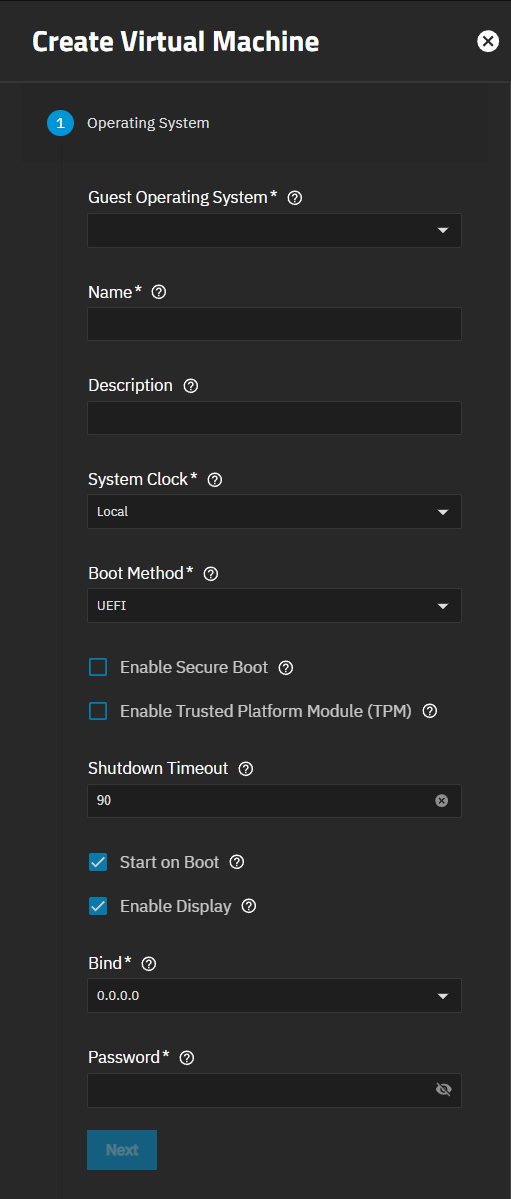
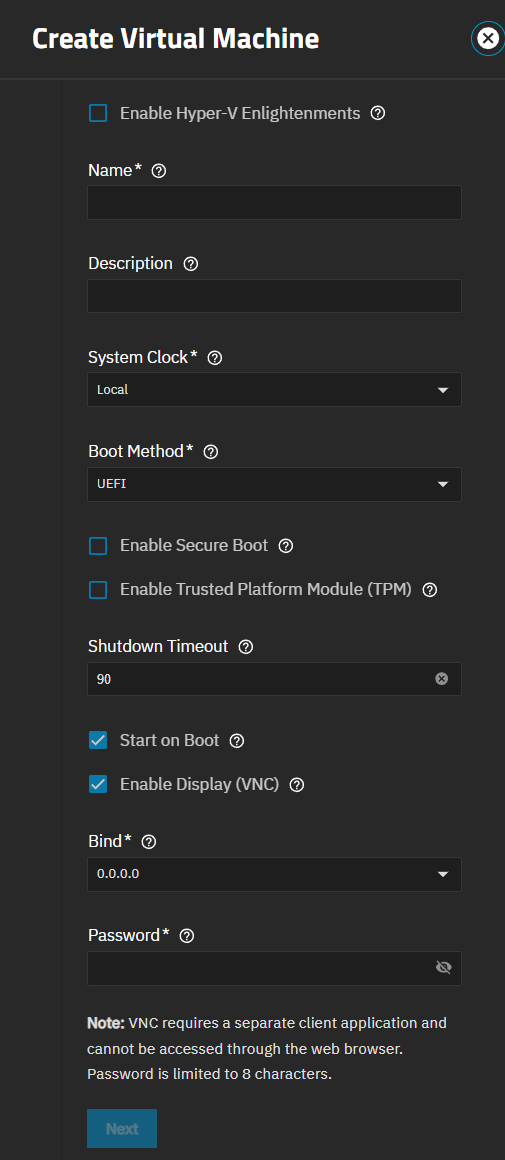
PD-1870 Update Display Device Options
This commit updates the UI ref and tutorials to include the new **Enable Device (VNC)** option, and the **Add Device** instructions for a display.

(cherry picked from commit f0341be6bd9b346312ac6e125d729750f8a890bd)

diff --git a/content/SCALEUIReference/VirtualMachinesScreens.md b/content/SCALEUIReference/VirtualMachinesScreens.md
@@ -172,7 +172,7 @@ The **Operating System** settings specify the VM operating system type, the time
 | **Enable Trusted Platform Module (TPM)** | Sets TrueNAS to provide a virtual TPM 2.0 device for the VM. This enables hardware-based security functions, including secure key storage and cryptographic operations. Required for Windows 11. |
 | **Shutdown Timeout** | Text entry field that accepts manual entry of a time in seconds that the system waits for the VM to cleanly shut down. During system shutdown, the system powers off after the shutdown timeout entered for the VM expires. |
 | **Start on Boot** | Sets the VM to automatically start after restarting the system or when it is rebooted. Selected by default. |
-| **Enable Display** | Enables a display (Virtual Network Computing) remote connection. Requires UEFI booting. Selected by default. |
+| **Enable Display (VNC)** | Enables a VNC display (Virtual Network Computing) remote connection. VNC is the default display type when adding a VM. Requires UEFI booting. Selected by default. |
 | **Bind** | Shows when **Enable Display** is selected. Sets an IP address to use for remote VNC sessions. Note that this setting only applies when using a VNC client other than the TrueNAS WebUI. |
 | **Password** | (Required)  Displays when **Enable Display** is selected.Enter a password to secure access to the VM. Enter this when logging into the VNC display. |
 {{< /truetable >}}
@@ -310,7 +310,7 @@ Disk settings, including disk location, drive type, and disk sector size, show w
 {{< /expand >}}
 
 {{< expand "Display Settings" "v" >}}
-Display settings show when **Device Type** is set to **Display**.
+Display settings show when **Device Type** is set to **Display**. You can only have one display type set to either VNC (the default when creating a new VM) but can add a second display device set to SPICE.
 
 Remote clients can connect to VM display sessions using a SPICE client, or by installing a third-party remote desktop server inside your VM.
 SPICE clients are available from the [SPICE Protocol site](https://www.spice-space.org/).
@@ -320,6 +320,7 @@ SPICE clients are available from the [SPICE Protocol site](https://www.spice-spa
 {{< truetable >}}
 | Setting | Description |
 |---------|-------------|
+| **Display Type** | Sets a new display device type to the option selected. <br>If the VM is created with no display setting, the options shown in **Display Type** are **VNC** or **SPICE**. If the VM is created with the default **VNC** display, only the **SPICE** option shows in on the dropdown list. <br>If you create a VM without adding the device and then later add a display device, the options show **VNC** and **SPICE** on the dropdown list. <br>TrueNAS allows creating two display devices, one from the VM creation wizard, which uses the default **VNC** display, and a second through the **Add Device** screen with the **Device Type** is set to **Display**. Only **SPICE** shows when adding the second display device. |
 | **Port** | Text field that accepts manual or copy/paste entry of a port number. Can be set to **0**, left empty for TrueNAS to assign a port when the VM is started, or set to a fixed preferred port number. |
 | **Resolution** | Sets the screen resolution for the VM display session to the option selected on the dropdown list. |
 | **Bind** | Sets the IP address used for the SPICE display sessions to the option selected on the dropdown list. Options include the default **0.0.0.0**, **::**, **::1**, IP addresses obtained from your network, and the TrueNAS primary interface. |

diff --git a/content/SCALETutorials/VirtualMachines/AddManageVMDevicesSCALE.md b/content/SCALETutorials/VirtualMachines/AddManageVMDevicesSCALE.md
@@ -183,12 +183,18 @@ After stopping the VM and clicking **Devices** to open the **Devices** screen:
 
    {{< trueimage src="/images/SCALE/Virtualization/VMAddDeviceDisplay.png" alt="Devices Add Display" id="Devices Add Display" >}}
 
-2. Enter a fixed port number in **Port**.
+2. Select the **Display Device** option from the dropdown list.
+   TrueNAS allows a VM to have two display devices, a VNC display device added through the VM creation wizard if the **Enable Display (VNC)** option is selected, and a second SPICE display device added to the VM using the **Add Device** screen with **Device Type** set to display.
+
+   If you created the VM without the display, the **Display Type** dropdown list shows the **VNC** and **SPICE** options.
+   Select the display type on the dropdown list. (VNC is recommended).
+   To add a second display device, repeat this procedure and select **SPICE** (the only option for the second display device).
+3. Enter a fixed port number in **Port**.
    To allow TrueNAS to assign the port after restarting the VM, set the value to zero (leave the field empty).
-3. Specify the display session settings:
+4. Specify the display session settings:
    a. Select the screen resolution to use for the display from the **Resolution** dropdown.
    b. Select an IP address for the display device to use in **Bind**. The default is **0.0.0.0**.
    c. Enter a unique password for the display device to securely access the VM.
-4. Select **Web Interface** to allow access to the VNC web interface.
-5. Click **Save**.
-6. Click on the **Virtual Machines** breadcrumb at the top of the screen, and restart the VM.
+5. Select **Web Interface** to allow access to the VNC web interface.
+6. Click **Save**.
+7. Click on the **Virtual Machines** breadcrumb at the top of the screen, and restart the VM.

diff --git a/content/SCALETutorials/VirtualMachines/_index.md b/content/SCALETutorials/VirtualMachines/_index.md
@@ -64,8 +64,8 @@ If you have not yet added a virtual machine to your system, clicking **Add Virtu
 
    g. (Optional) Select **Start on Boot** to start the VM after the system is restarted or boots up.
    
-   h. (Optional) Select **Enable Display** to enable a SPICE Virtual Network Computing (VNC) remote connection for the VM.
-      **Enable Display** shows the **Bind** and **Password** fields.
+   h. (Optional) Select **Enable Display (VNC)** to enable a Virtual Network Computing (VNC) remote connection for the VM.
+      **Enable Display (VNC)** shows the **Bind** and **Password** fields.
 
    h. Select the IP address or option to use in **Bind**. Shows if you select **Enable Display**.
       The **Bind** and **Password** fields display. If it is selected, to change the default IP address to use a specific address as the display network interface; otherwise, leave it set to **0.0.0.0**.
